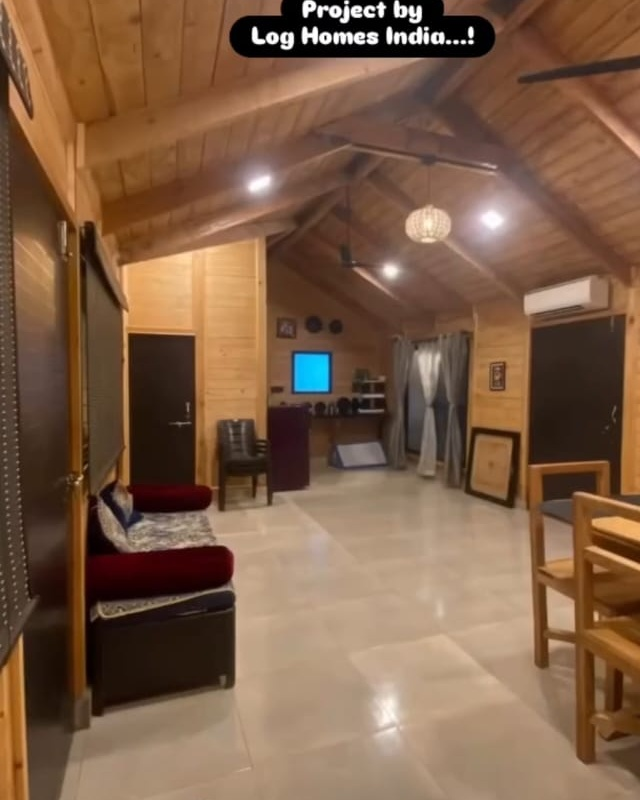
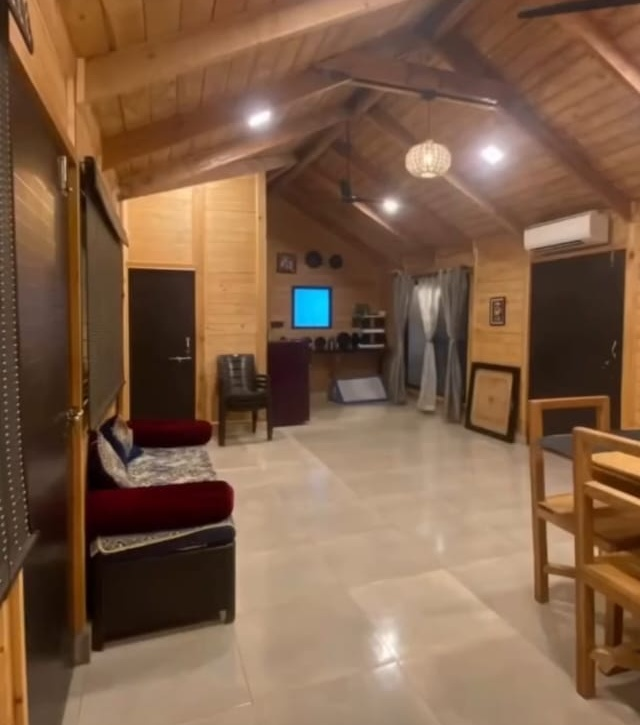
Fix cropped images (letterbox, Reels header, stickers); revert unrequested styling; mark data as draft

diff --git a/components/Hero.tsx b/components/Hero.tsx
@@ -22,7 +22,7 @@ export default function Hero() {
 
   return (
     <section ref={ref} className="relative h-screen min-h-[640px] overflow-hidden">
-      {/* Flagship Hero Photography */}
+      {/* Hero photography. Keep the dark overlay above it for text contrast — see globals.css .hero-overlay */}
       <motion.div
         style={{ y: bgY }}
         className="absolute inset-0 -top-[10%] h-[120%]"
@@ -36,7 +36,7 @@ export default function Hero() {
           className="object-cover object-center"
         />
       </motion.div>
-      <div className="hero-overlay absolute inset-0 bg-wood-dark/40 backdrop-brightness-95" />
+      <div className="hero-overlay absolute inset-0" />
 
       {/* Entrance curtain — wipes away once on load, above everything else in the hero */}
       <motion.div

diff --git a/components/ProjectCard.tsx b/components/ProjectCard.tsx
@@ -30,14 +30,14 @@ export default function ProjectCard({
         onMouseLeave={resetCursor}
       >
         <TiltCard className="[transform-style:preserve-3d]">
-          <RevealImage className="aspect-[4/5] rounded-sm shadow-md">
+          <RevealImage className="aspect-[4/5]">
             {image ? (
               <Image
                 src={image}
                 alt={title}
                 fill
                 sizes="(max-width: 768px) 100vw, 33vw"
-                className="object-cover transition-transform duration-700 group-hover:scale-105"
+                className="object-cover"
               />
             ) : (
               <div className="absolute inset-0 bg-gradient-to-br from-wood-mid to-wood-dark flex items-center justify-center">

diff --git a/lib/projects.ts b/lib/projects.ts
@@ -1,5 +1,8 @@
-// Real project portfolio for Log Homes India.
-// Single source of truth for the homepage carousel and the /projects listing.
+// Project photos come from the owner's Instagram reels (shared via WhatsApp).
+// DRAFT: titles, categories and locations are inferred from reel captions and
+// still need the owner's confirmation. Single source of truth for the
+// homepage carousel and the /projects listing; keep the shape so ProjectCard
+// doesn't need changes.
 export interface Project {
   title: string;
   category: "Resort" | "Farmhouse" | "Private Residence";

diff --git a/app/about/page.tsx b/app/about/page.tsx
@@ -42,7 +42,7 @@ export default function AboutPage() {
         <section className="bg-paper py-24 md:py-32">
           <Container className="grid grid-cols-1 md:grid-cols-2 gap-12 md:gap-20 items-center">
             <div>
-              <RevealImage className="aspect-[4/5] rounded-sm shadow-md" curtainColor="bg-putty">
+              <RevealImage className="aspect-[4/5]" curtainColor="bg-putty">
                 <Image
                   src="/images/hero/hero-lake-villa.jpg"
                   alt="Log Homes India luxury timber craftsmanship"

diff --git a/app/gallery/page.tsx b/app/gallery/page.tsx
@@ -45,7 +45,7 @@ export default function GalleryPage() {
                         alt={tile.title}
                         fill
                         sizes="(max-width: 768px) 50vw, 25vw"
-                        className="object-cover transition-transform duration-700 group-hover:scale-105"
+                        className="object-cover"
                       />
                     ) : (
                       <div className="absolute inset-0 flex items-center justify-center bg-gradient-to-br from-wood-mid to-wood-midLight">

diff --git a/components/Lightbox.tsx b/components/Lightbox.tsx
@@ -135,7 +135,7 @@ export default function Lightbox({
                 exit={{ opacity: 0, scale: 0.98 }}
                 transition={{ duration: 0.3, ease: [0.22, 1, 0.36, 1] }}
               >
-                <div className="relative aspect-[4/3] max-h-[68vh] w-full overflow-hidden bg-wood-dark rounded-sm">
+                <div className="relative aspect-[4/3] max-h-[68vh] w-full overflow-hidden bg-wood-dark">
                   {item.image ? (
                     <Image
                       src={item.image}

diff --git a/app/materials/page.tsx b/app/materials/page.tsx
@@ -53,7 +53,7 @@ export default function MaterialsPage() {
                   i % 2 === 1 ? "md:[&>*:first-child]:order-2" : ""
                 }`}
               >
-                <RevealImage className="aspect-[4/3] rounded-sm shadow-md" curtainColor="bg-wood-dark">
+                <RevealImage className="aspect-[4/3]" curtainColor="bg-wood-dark">
                   <Image
                     src={detail.image}
                     alt={detail.alt}

diff --git a/lib/gallery.ts b/lib/gallery.ts
@@ -1,3 +1,7 @@
+// Gallery photos come from the owner's Instagram reels (shared via WhatsApp).
+// DRAFT: titles and captions are descriptive copy written from the photos and
+// still need the owner's review. `aspect` keeps the magazine-style variation
+// in the grid; the lightbox ignores it.
 export interface GalleryItem {
   aspect: string;
   title: string;
